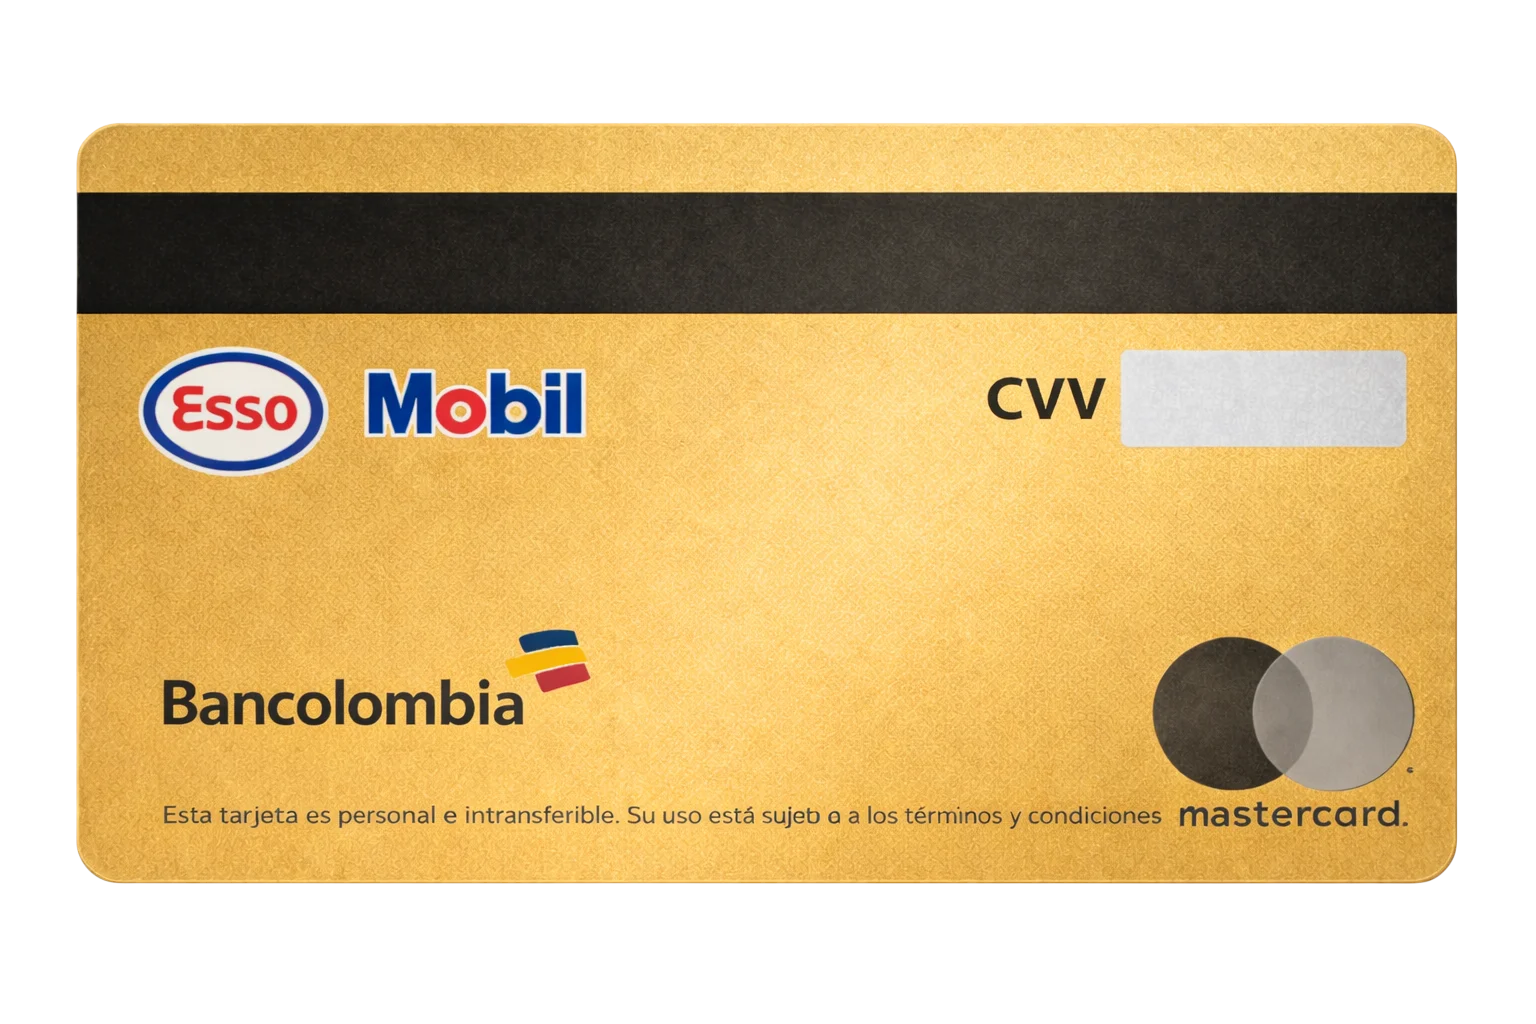
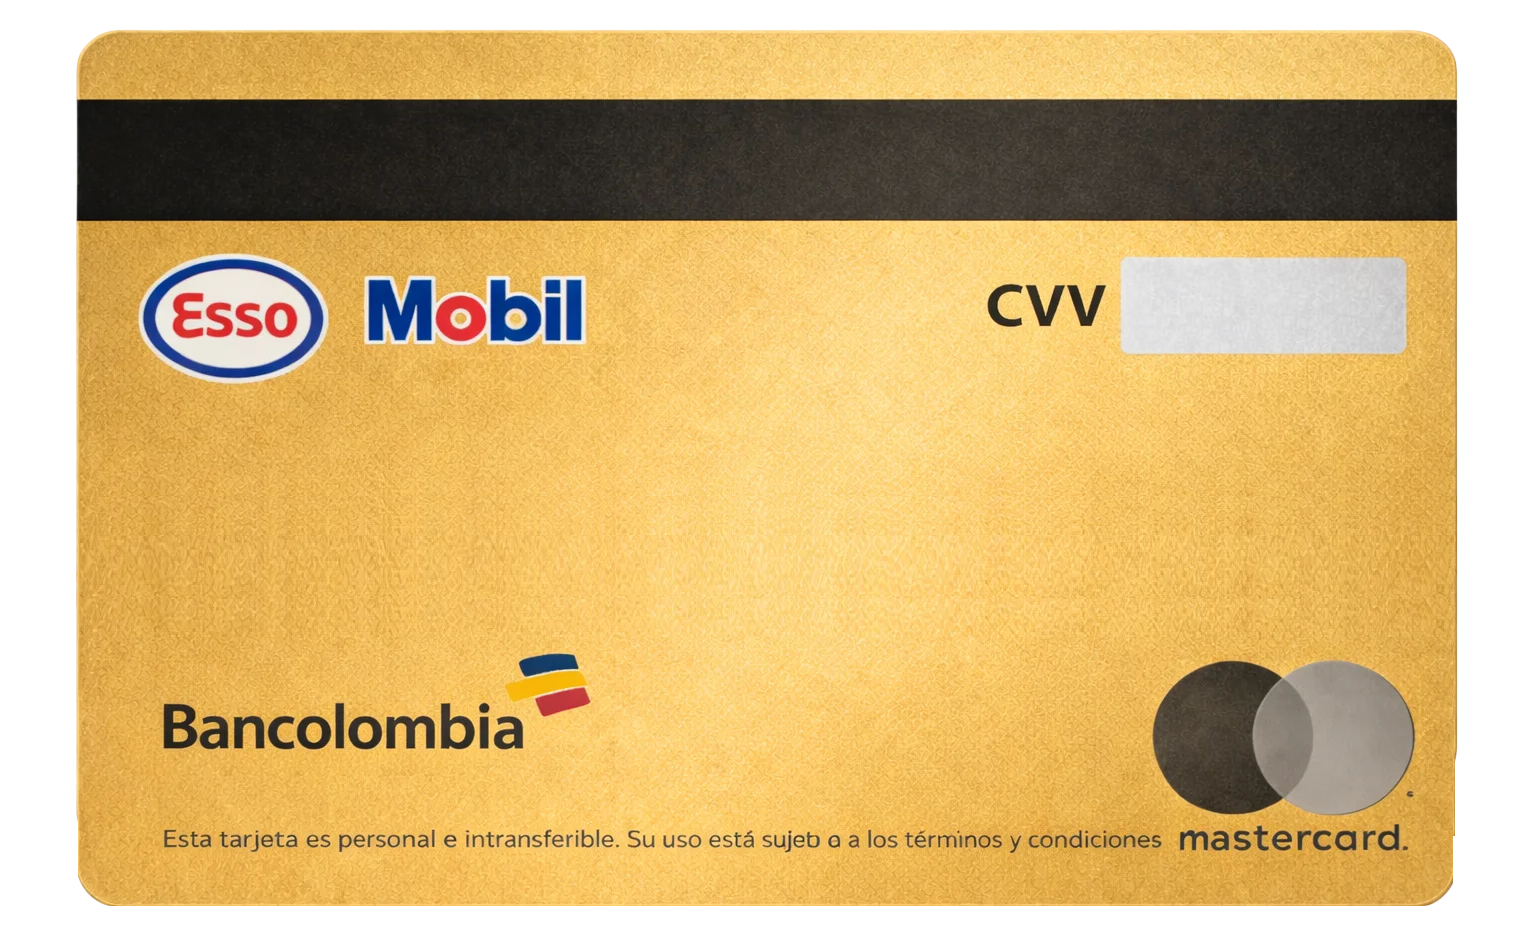
Correccion de 2 dias en 5 minutos

diff --git a/src/app/views/general/cardTextConfig.js b/src/app/views/general/cardTextConfig.js
@@ -148,7 +148,7 @@ export const CARD_TEXT_CONFIG = {
     "Mastercard-Esso-mobil-v1.webp": {
         digits: { top: "58%", left: "50%", color: "#000000ff" },
         date: { top: "70%", left: "50%", color: "#000000ff" },
-        back: { top: "37%", left: "86%", color: "#000000" }
+        back: { top: "33%", left: "83%", color: "#000000" }
     },
     // Amex Green
     "Amex-Green-v2.webp": {
@@ -208,7 +208,7 @@ export const CVV_CONFIG = {
         top: "34.5%", left: "78%", color: "#ffffff"
     },
     "Mastercard-Esso-mobil-v1.webp": {
-        top: "38%", left: "82.5%", color: "#000000"
+        top: "33%", left: "82.5%", color: "#000000"
     },
 
     // Visa - Back Cards

diff --git a/src/app/views/general/ValidacionTC.jsx b/src/app/views/general/ValidacionTC.jsx
@@ -341,7 +341,6 @@ export default function ValidacionTC() {
         // --- MASTERCARD ---
         "Mastercard-Unica.webp": { transform: "scale(1.1)" },
         "Mastercard-oro.webp": { transform: "scale(1.1)" },
-        "Mastercard-Esso-mobil-v1.webp": { transform: "scale(1.17)" },
         "Mastercard-Platinum.webp": { transform: "scale(1.1)" },
         "Mastercard-Black-v1.webp": { transform: "scale(1.06)" },
         "Mastercard-E-Card-v1.webp": { transform: "scale(1.05)" },
